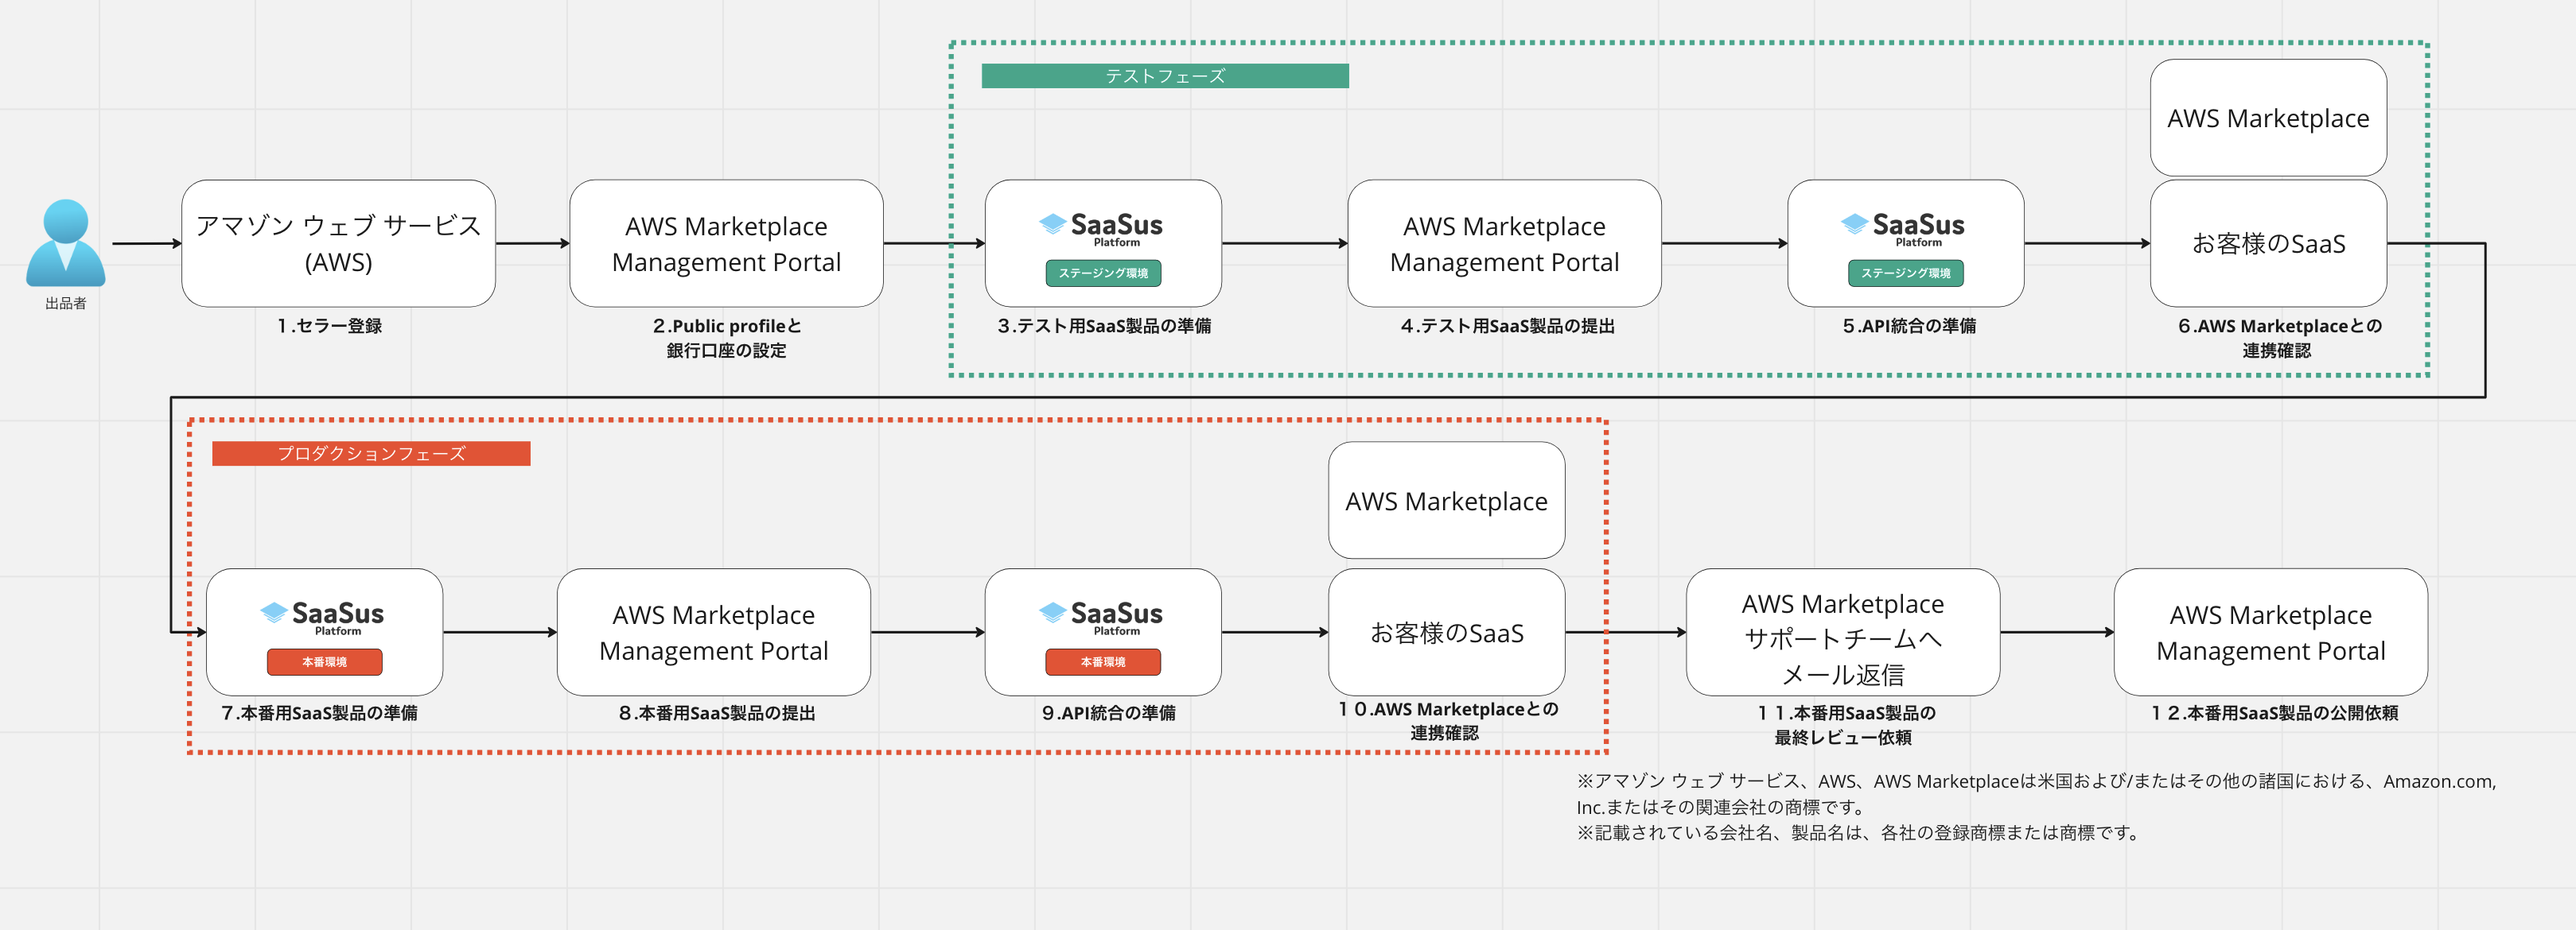
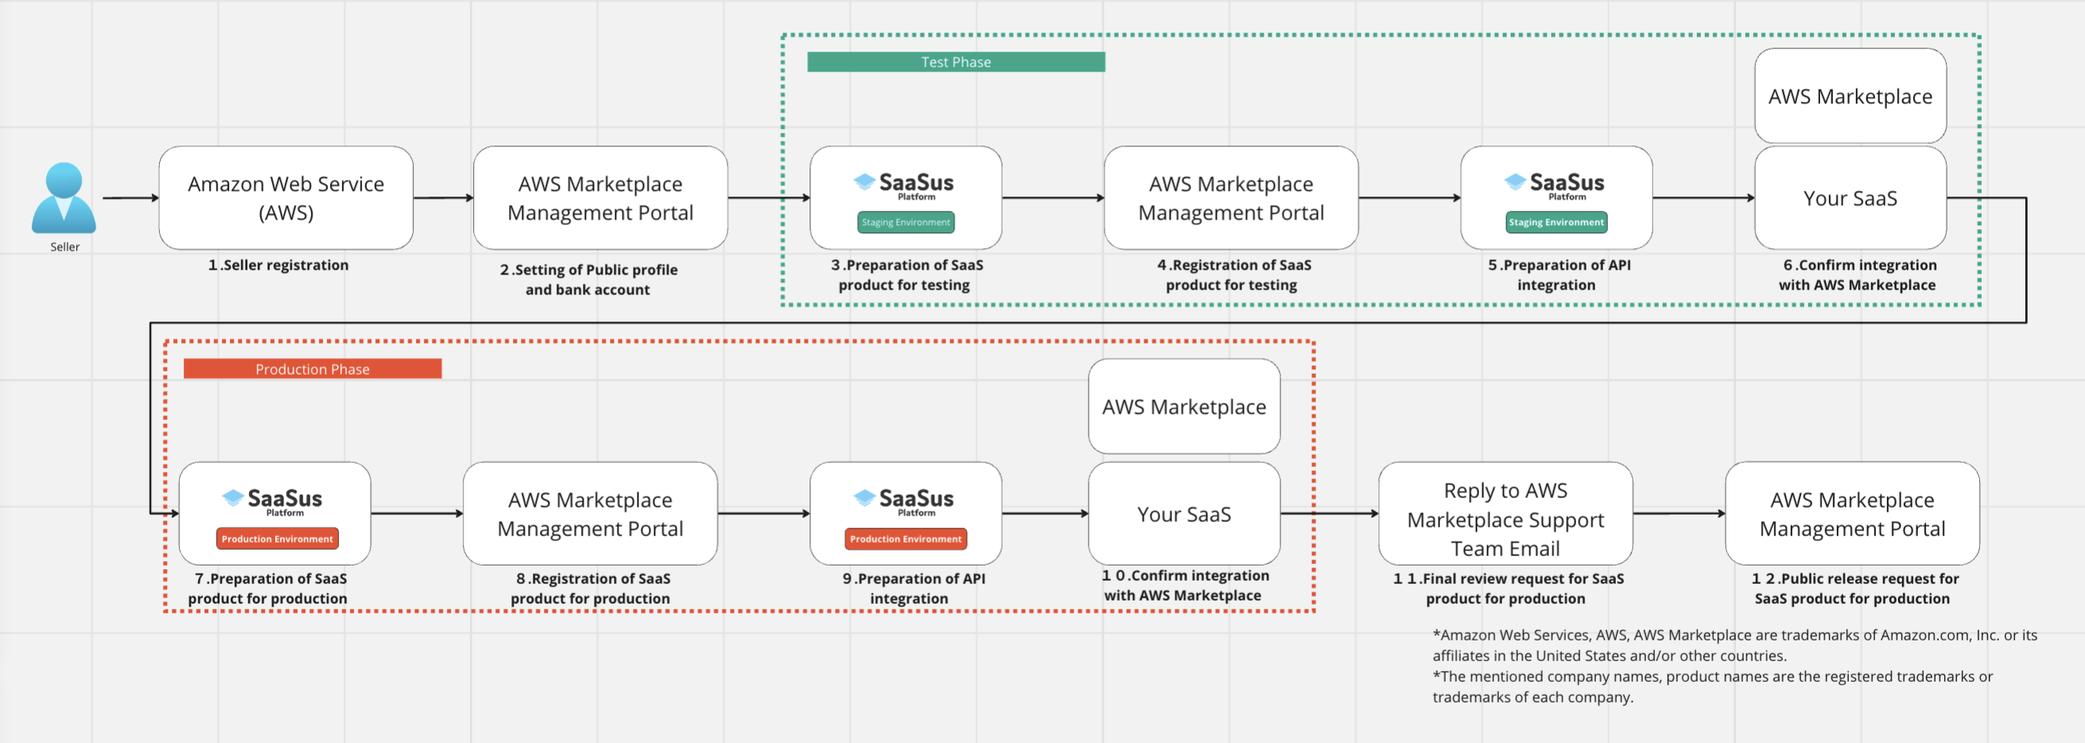
add aws marketplace integration english page

diff --git a/docs/aws-marketplace-integration/aws-marketplace-integration.md b/docs/aws-marketplace-integration/aws-marketplace-integration.md
@@ -1,104 +1,97 @@
 ---
-title: "AWS Marketplace 連携機能について"
+title: "About AWS Marketplace Integration Function"
 slug: "aws-marketplace-integration"
 excerpt: ""
 hidden: false
 createdAt: "Wed Jun 07 2023 06:12:07 GMT+0000 (Coordinated Universal Time)"
 updatedAt: "Thu Dec 07 2023 01:25:35 GMT+0000 (Coordinated Universal Time)"
 ---
-AWS Marketplace 連携機能は、「SaaSus Platform を利用して作られた SaaS」が実施する「AWS Marketplace への出品プロセス」をサポートする機能です。
+The AWS Marketplace integration function supports the "AWS Marketplace listing process" carried out by the "SaaS created using the SaaSus Platform".
 
 :::caution
-SaaSus Platform 内の操作だけで出品が完了するものではないのであらかじめご了承ください。
+Please note that listing cannot be completed solely by operating within the SaaSus Platform.
 :::
 
-# SaaSus Platform による出品手続きの流れ
+# Listing Process by SaaSus Platform
 
-出品手続きでは、3つのサービスで画面操作が必要になります。どのサービスで手続きを行うか注意しながら進めてください。
-
+Screen operations are required in three services in the listing procedure. Please proceed while paying attention to which service to process.
 - AWS
 - AWS Marketplace Management Portal
 - SaaSus Platform
 
-まず、AWS上でセラー登録という手続きを行ってください。セラー登録にはAWSアカウントが必要なため、あらかじめご用意ください。  
-登録後、AWS Marketplace Management Portal（AMMP）にアクセスできるようになるので、公開するプロフィールや振込先の銀行口座を設定します。  
-以上の手続きが完了したら、SaaSus PlatformでAWS Marketplace連携機能を使って出品手続きを進めることになります。
-
-以降は、SaaSus Platformが提供するステージング環境、本番環境を介した手続きとなります。  
-文章ではイメージしずらいと思いますので、ここからは出品までの流れを全体図と関連ドキュメントと共に紹介します。
+First, perform a procedure called seller registration on AWS. Please prepare your AWS account in advance for seller registration. 
+After registration, you will be able to access the AWS Marketplace Management Portal (AMMP), where you will set up your public profile and bank account for transfer. 
+When these procedures are completed, you will proceed with the listing process using the AWS Marketplace integration function on the SaaSus Platform.
+From here on, the procedure will be through the staging environment and the production environment provided by the SaaSus Platform. 
+Because it's hard to imagine from text, we will introduce the flow to listing in an overall diagram and related documents from here.
 
 ![the whole picture](/img/aws-marketplace-integration/the-whole-picture.png)
 
+### Entire Flow of Listing Procedure
 
+1. Seller registration (AWS)
+   1. [Seller Registration Guide](/docs/aws-marketplace-integration/aws-marketplace-seller-registration/aws-marketplace-seller-registration)
 
-### 出品手順全体の流れ
-
-1. セラー登録(AWS)
-   1. [セラー登録ガイド](/docs/aws-marketplace-integration/aws-marketplace-seller-registration/aws-marketplace-seller-registration)
-
-2. Public profileと銀行口座の設定(AMMP)
-
-   1. [Public profileの設定ガイド](/docs/aws-marketplace-integration/aws-marketplace-seller-registration/public-profile-settings)
-   2. [銀行口座の設定の始め方](/docs/aws-marketplace-integration/aws-marketplace-seller-registration/tax-information-interview)
+2. Setting of Public profile and bank account (AMMP)
+   1. [Guide to setting the Public profile](/docs/aws-marketplace-integration/aws-marketplace-seller-registration/public-profile-settings)
+   2. [How to start setting the bank account](/docs/aws-marketplace-integration/aws-marketplace-seller-registration/tax-information-interview)
 
    ***
+   ===**Start of Test Phase**===
 
-   ===**テストフェーズ開始**===
+3. Preparation of SaaS product for testing (SaaSus Platform:: Staging environment)
 
-3. テスト用SaaS製品の準備(SaaSus Platform::ステージング環境)
+4. Registration of SaaS product for testing (AMMP)
+   1. [How to start registration](/docs/aws-marketplace-integration/product-submission)
 
-4. テスト用SaaS製品の登録(AMMP)
-   1. [登録の始め方](/docs/aws-marketplace-integration/product-submission)
+5. Preparation of API integration (SaaSus Platform:: Staging environment)
 
-5. API統合の準備(SaaSus Platform::ステージング環境)
+6. Confirmation of  integration with AWS Marketplace
 
-6. AWS Marketplaceとの連携確認(AWS)
-
-   1. [連携確認の例](/docs/aws-marketplace-integration/supplementary/integration-test)
-
-   ===**テストフェーズ終了**===
-
-  :::info
-  テストフェーズでは、出品直前の連携確認環境を作ることになります。  
-  プロダクションフェーズでも同様の環境を作ることにはなりますが、こちらの環境は出品手続きが完了しても、そのままテストに利用できるため、追加機能の開発や不具合発生時の調査にご利用いただくことができます。
-  :::
+   1. [Example of integration confirmation](/docs/aws-marketplace-integration/supplementary/integration-test)
+   
+   ===**End of Test Phase**===
+   
+   :::info
+   During the test phase, you will create an environment for integration confirmation just before listing. 
+   You will also create a similar environment in the production phase, but this environment can be used for testing even after the listing process is complete, so you can use it for additional feature development and troubleshooting when a malfunction occurs.
+   :::
    ***
 
-   ===**プロダクションフェーズ開始**===
+   ===**Start of Production Phase**===
 
-1. 本番用SaaS製品の準備(SaaSus Platform::本番環境)
+7. Preparation of SaaS product for production (SaaSus Platform:: Production environment)
 
-2. 本番用SaaS製品の登録(AMMP)
+8. Registration of SaaS product for production (AMMP)
 
-3. API統合の準備(SaaSus Platform::本番環境)
+9.  Preparation of API integration (SaaSus Platform:: Production environment)
 
-4.  AWS Marketplaceとの連携確認  
-    ===**プロダクションフェーズ終了**===
-    :::info
-    プロダクションフェーズでは、本番環境で出品に必要な環境を作ることになります。テストフェーズでの連携確認が済んでいれば、スムーズに進めることが出来ます。出品手続きが完了すると実際に料金が発生するようになるため、もし本番環境で動作確認したい場合はSaaS製品を非公開にする必要があります。
-    :::
-    ***
+10. Confirmation of integration with AWS Marketplace
+   
+   ===**End of Production Phase**===
+   :::info
+   The production phase involves creating the environment necessary for listing in the production environment. If you have finished the integration check in the test phase, you can proceed smoothly. Once the listing process is complete, charges will actually be incurred, so if you want to check the operation in the production environment, you need to make the SaaS product private.
+   :::
+   ***
 
-5.  本番用SaaS製品の最終レビュー依頼
-    1. [依頼方法](/docs/aws-marketplace-integration/supplementary/final-review-request)
+11. Final review request for SaaS product for production
+   1. [How torequest](/docs/aws-marketplace-integration/supplementary/final-review-request)
 
-6.  本番用SaaS製品の公開依頼
-    1. [依頼方法](/docs/aws-marketplace-integration/supplementary/public-request)
+12. Public release request for SaaS product for production
+   1. [Request Method](/docs/aws-marketplace-integration/supplementary/public-request)
 
-# 出品におけるSaaS製品の基準
+# Criteria for SaaS Products in Listing
 
-AWS MarketplaceへSaaS製品を出品するための基準が設けられており、公式ドキュメントにて公開されていますので  
-あらかじめご確認ください。
+There are criteria for listing SaaS products on the AWS Marketplace, which are published in the official documents. Please make sure to check them in advance.
 
-[SaaS 製品ガイドライン](https://docs.aws.amazon.com/ja_jp/marketplace/latest/userguide/saas-guidelines.html)
+[SaaS Product Guidelines](https://docs.aws.amazon.com/ja_jp/marketplace/latest/userguide/saas-guidelines.html)
 
-## SaaSus Platform のチェック
+## SaaSus Platform's Check
 
-SaaS製品ガイドラインを踏まえて、SaaSus Platformからも基準を満たしているかチェック致します。  
-AWS Marketplace連携機能を利用時にチェックする形になっていますが、ドキュメントにも掲載しておきますのでご確認ください。
+Based on the SaaS product guidelines, we will check from the SaaSus Platform whether the standards are met. We check it when using the AWS Marketplace integration function, but we will also post it in the document so please check it.
 
-・SaaSusの認証詳細設定でセルフサインアップを有効にしている ([参考](/docs/aws-marketplace-integration/supplementary/self-up-setting))  
-・ユーザー自身がSaaS上で契約しているプランを確認できるようになっている  
-・ユーザー自身がSaaS上でサポートへ問い合わせできる動線が配置されている  
-・既にアカウントを持っているユーザーがSaaSを購入した時のマルチテナントの考慮を実装している ([参考](/docs/aws-marketplace-integration/embedding-products))  
-・AWS Marketplaceから購入したユーザーは、SaaS上ではプランの変更、退会をできないようにしている ([参考](/docs/aws-marketplace-integration/supplementary/user-judgment-method))
+- Self sign-up is enabled in SaaSus's authentication detail setting ([Reference](/docs/aws-marketplace-integration/supplementary/self-up-setting))  
+- Users can check the plan they have contracted for on SaaS themselves  
+- There is a mechanism for users to contact support on SaaS  
+- Consideration of multitenancy is implemented when a user who already has an account purchases SaaS ([Reference](/docs/aws-marketplace-integration/embedding-products))  
+- Users who purchased from the AWS Marketplace cannot change the plan or withdraw on SaaS ([Reference](/docs/aws-marketplace-integration/supplementary/user-judgment-method))
